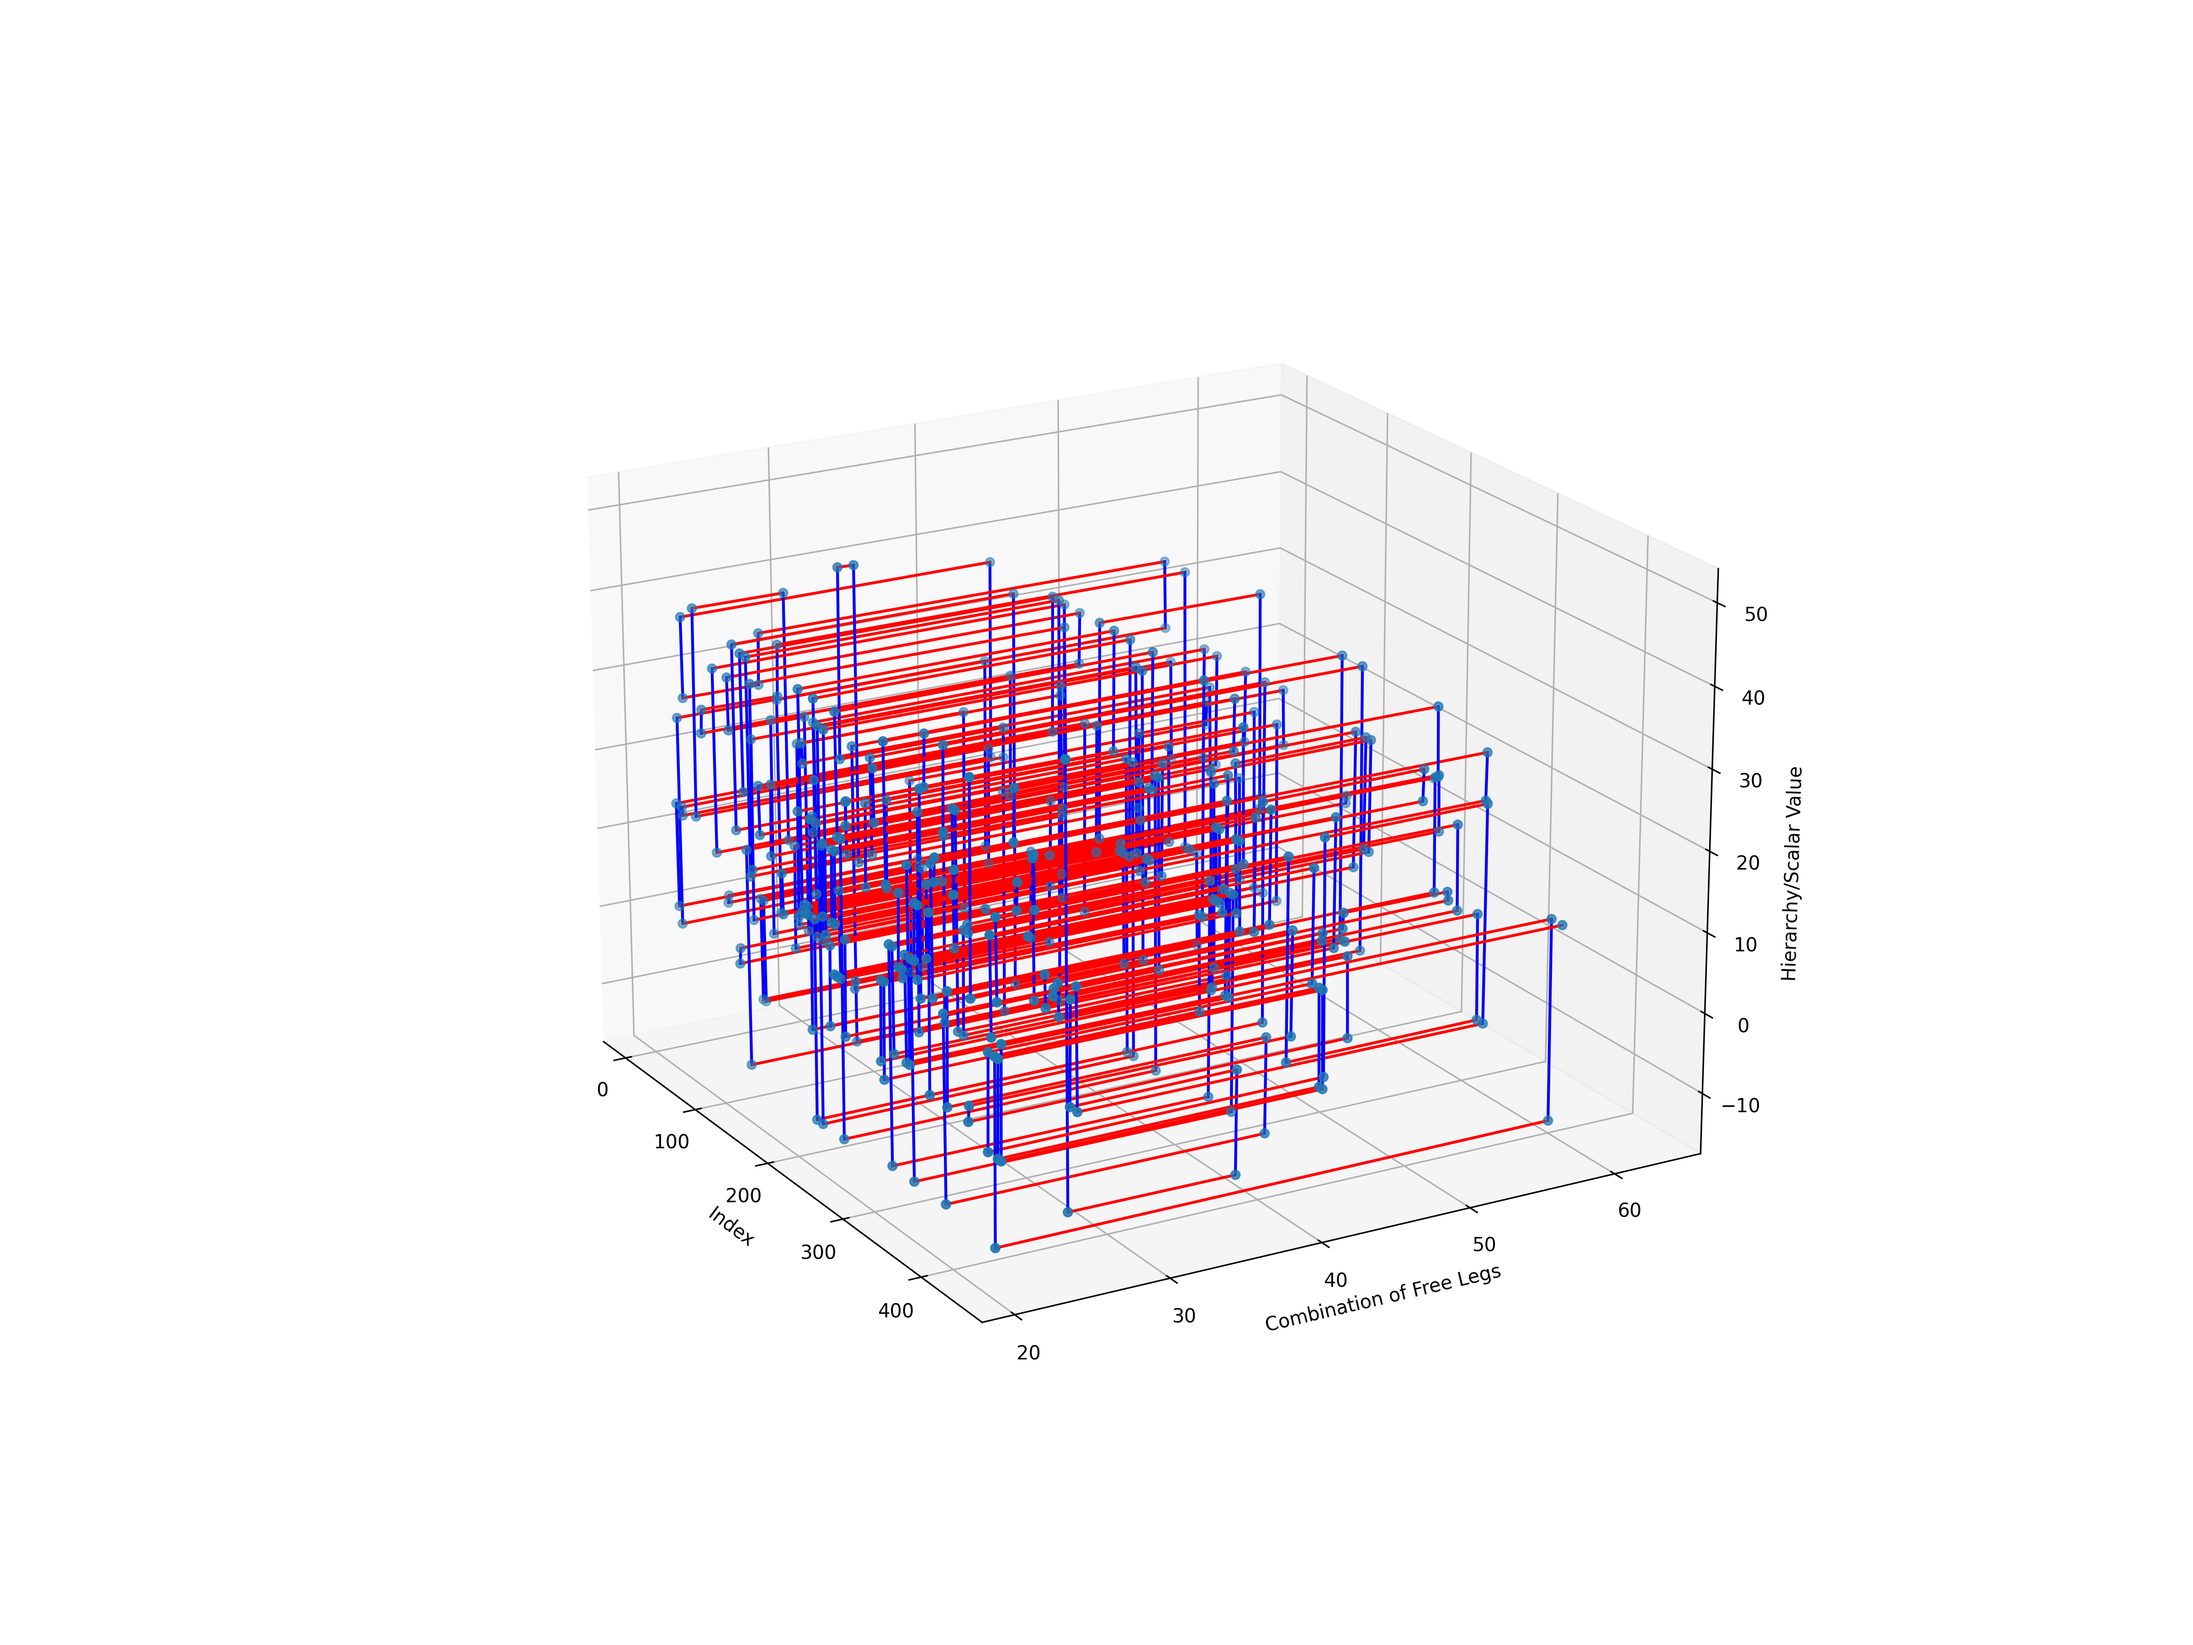
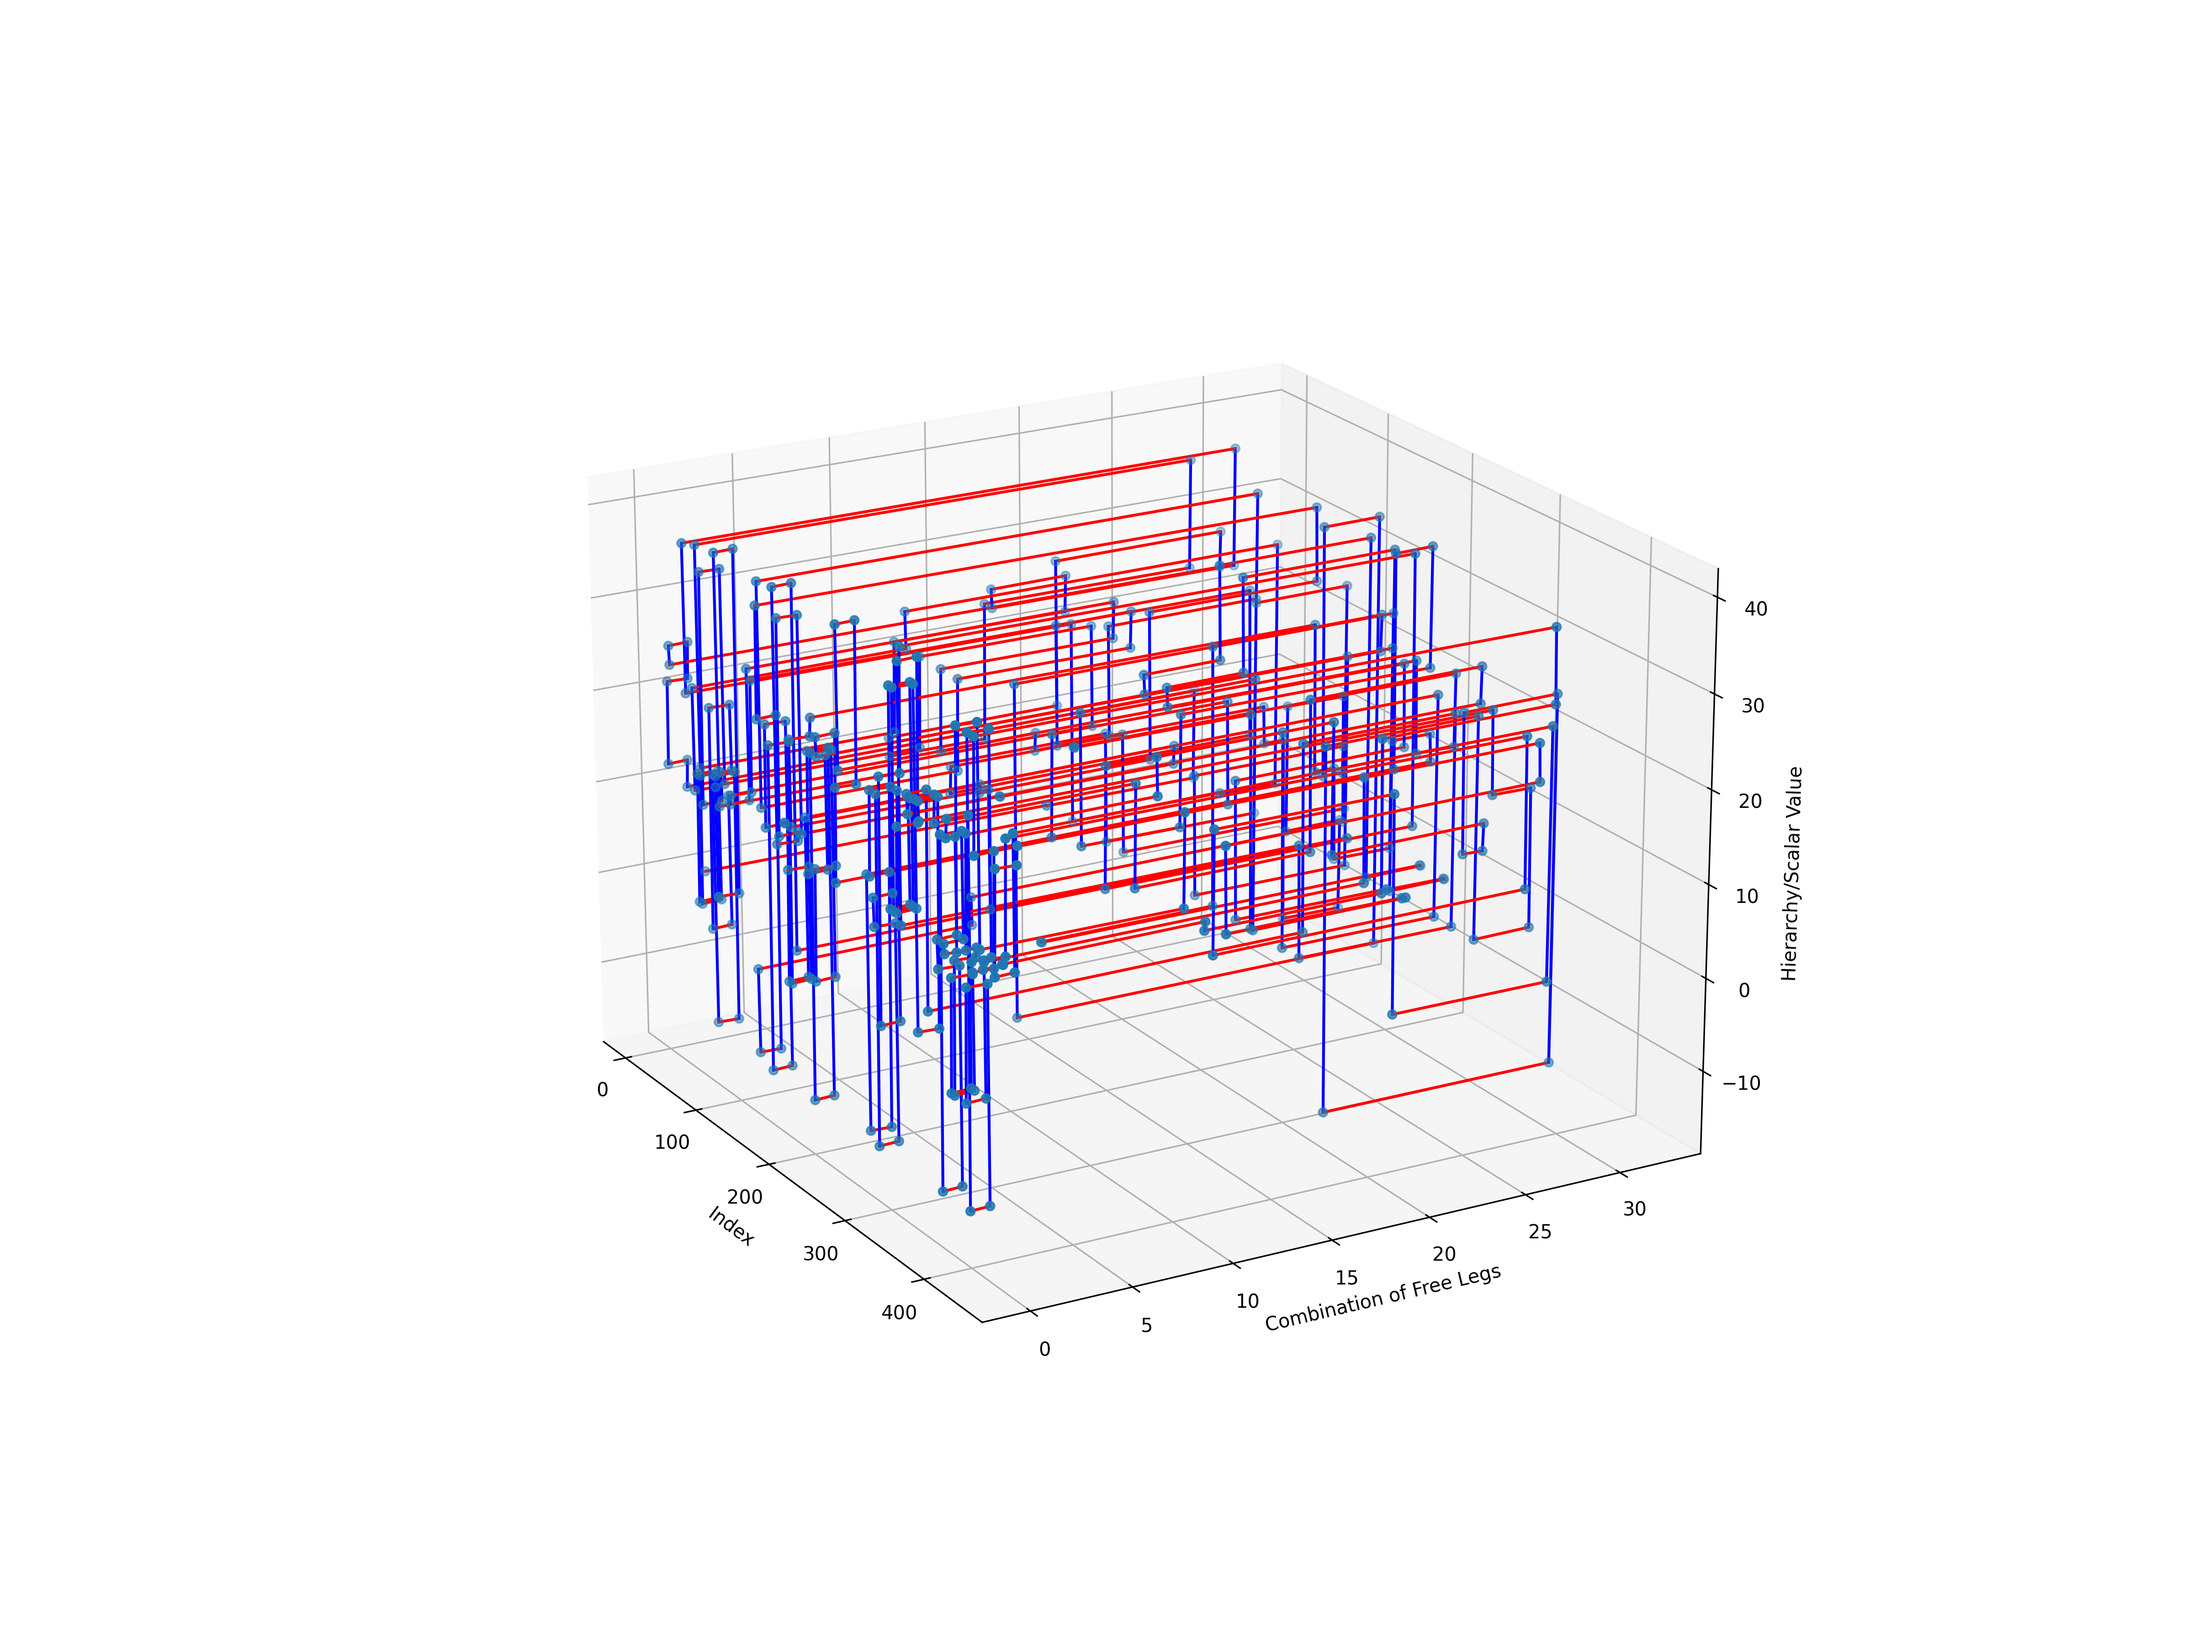
update: 遊脚の組み合わせを指定できるように修正

diff --git a/python/util.py b/python/util.py
@@ -1,5 +1,81 @@
 import numpy as np
 
+def leg_ground_map(str):
+    if str =="010101":
+        return 0
+    elif str =="101010":
+        return 1
+    elif str =="111111":
+        return 2
+    elif str =="011111":
+        return 3
+    elif str =="101111":
+        return 4
+    elif str =="110111":
+        return 5
+    elif str =="111011":
+        return 6
+    elif str =="111101":
+        return 7
+    elif str =="111110":
+        return 8
+    elif str =="001111":
+        return 9
+    elif str =="010111":
+        return 10
+    elif str =="011011":
+        return 11
+    elif str =="011101":
+        return 12
+    elif str =="011110":
+        return 13
+    elif str =="100111":
+        return 14
+    elif str =="101011":
+        return 15
+    elif str =="101101":
+        return 16
+    elif str =="101110":
+        return 17
+    elif str =="110011":
+        return 18
+    elif str =="110101":
+        return 19
+    elif str =="110110":
+        return 20
+    elif str =="111001":
+        return 21
+    elif str =="111010":
+        return 22
+    elif str =="111100":
+        return 23
+    elif str =="001011":
+        return 24
+    elif str =="001101":
+        return 25
+    elif str =="010011":
+        return 26
+    elif str =="010110":
+        return 27
+    elif str =="011001":
+        return 28
+    elif str =="011010":
+        return 29
+    elif str =="100101":
+        return 30
+    elif str =="100110":
+        return 31
+    elif str =="101001":
+        return 32
+    elif str =="101100":
+        return 33
+    elif str =="110010":
+        return 34
+    elif str =="110100":
+        return 35
+    else:
+        raise ValueError(f"脚接地パターンが不正です: {str}")
+  
 def hierarcy_data_from_csv(data): 
     # for文で，各行のデータを処理
     hierarcy_data = []
@@ -30,6 +106,11 @@ def bool_list_to_2bit_int(bools):
     for ind, b in enumerate(bools):
         res += int(b) << (5 - ind)
     return res
+
+def bool_list_to_leg_ground_int(bools):
+    # boolのリストを文字列化して，脚接地パターン整数に変換
+    bitstr = ''.join(['1' if b else '0' for b in bools])
+    return leg_ground_map(bitstr)
 
 def convert_base7(arr):
     """
@@ -118,7 +199,7 @@ def bool_int_list_to_int(bit_list):
     # (bool, int)のリストをmapする2つの数字に変換
     bools = [int(b) for b, _ in bit_list]
     ints = [n for _, n in bit_list]
-    return (bool_list_to_2bit_int(bools), state_to_scalar(ints))
+    return (bool_list_to_leg_ground_int(bools), state_to_scalar(ints))
     # return (bool_list_to_2bit_int(bools), convert_base7(ints))
 
 def tuple_list_to_simple_str(tpl_list):

diff --git a/python/sample.py b/python/sample.py
@@ -91,7 +91,7 @@ def plot_2d_pairs_alternate_color(pairs, plot_type=("x", "y"), only_save=False):
     plt.show()
     return
 
-file_path1 = "flat_20251116_1911_37/node_list1.csv"
+file_path1 = "long_flat_20251016_1308_53/node_list1.csv"
 df = pd.read_csv(file_path1, header=None)
 
 res = util.hierarcy_data_from_csv(df)
